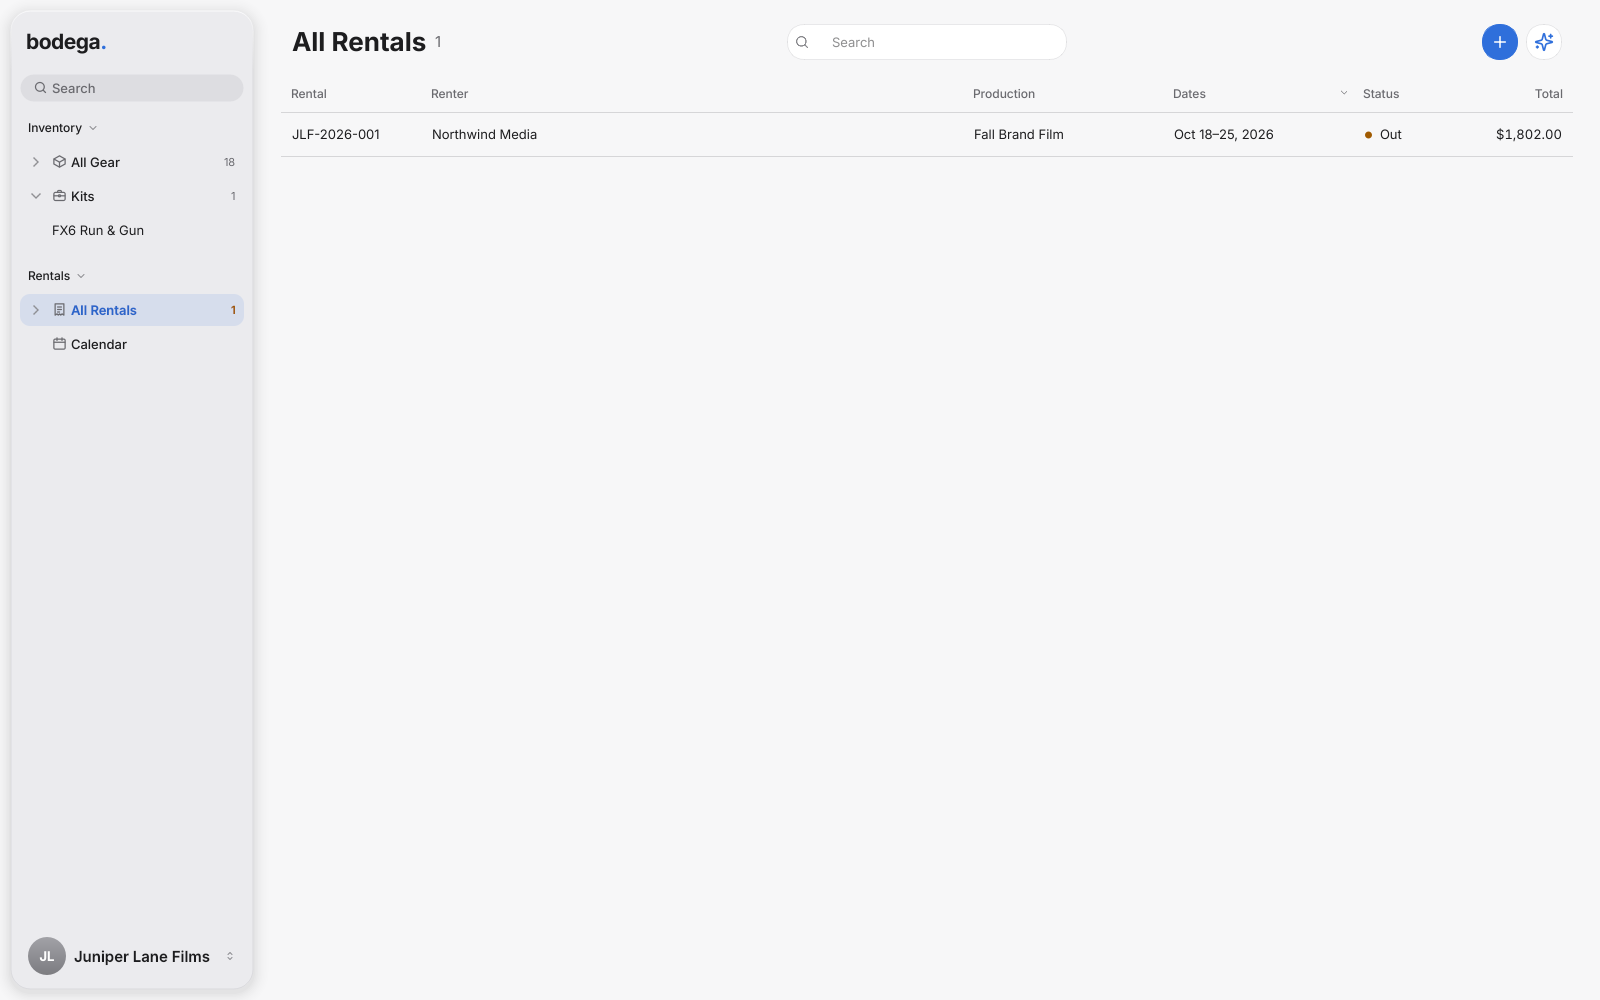
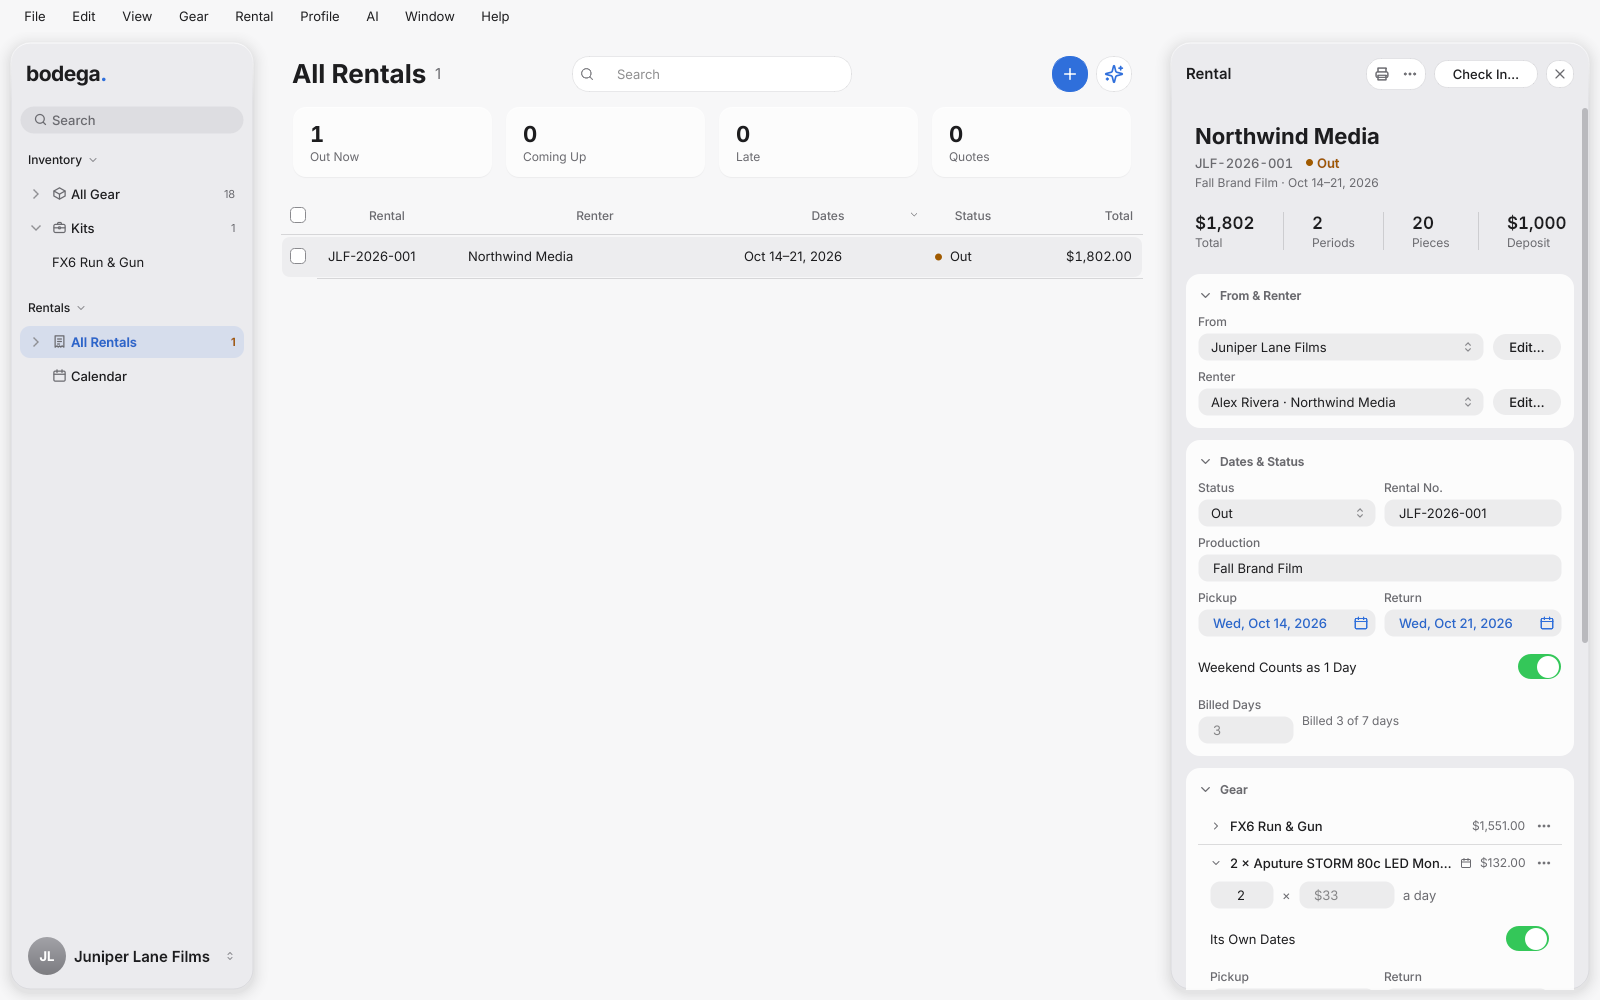
An overview of what's built and a scope map; the rule that every push carries its real test results; README screenshots of today

diff --git a/tests/screenshot.py b/tests/screenshot.py
@@ -99,9 +99,20 @@ def main(out: Path, sheet: Path | None = None) -> int:
 
     lib = sample.fill(Library(tmp).load())
     _give_photos(lib)
+    from datetime import timedelta
+
+    from bodega.core import dates
     from bodega.core.model import LogEntry
 
-    for r in lib.rentals.values():  # gone out, so the gear has earned something
+    for r in lib.rentals.values():  # gone out two days ago, so the gear is out and has earned something
+        start = dates.parse(r.pickup)
+        step = (dates.today() - timedelta(days=2) - start) if start else timedelta(0)
+        for owner, key in [(r, "pickup"), (r, "return_date")] + [
+            (ln, k) for ln in r.lines for k in ("pickup", "return_date")
+        ]:
+            d = dates.parse(getattr(owner, key))
+            if d is not None:
+                setattr(owner, key, dates.iso(d + step))
         r.status = "out"
         lib.save_rental(r)
     first = lib.ordered_items()[0]

diff --git a/docs/OVERVIEW.md b/docs/OVERVIEW.md
@@ -1,0 +1,75 @@
+# What's Built
+
+What Bodega is today, measured, not what it's meant to become (that's the owner's Universal App Standard and
+[PROJECT_ADDENDUM.md](PROJECT_ADDENDUM.md); what doesn't meet it yet is in [STANDARD_AUDIT.md](STANDARD_AUDIT.md)).
+Where this and the standard disagree, this says how things are and the standard says where they're going.
+
+**Measured at** commit `56a9232` on the branch `claude/awesome-bohr-9d9eva` (version 1.3.0, not merged or
+released yet; main is 1.2.1), 2026-10-16. Later changes add a dated note at the end instead of rewriting this.
+
+## What it is
+
+A desktop app (Mac, Windows, Linux) for a small film-gear rental house, or a filmmaker who rents out their own kit:
+an inventory of gear, kits made of it, and rentals that go from quote to booked to out to returned, with the
+paperwork for each. One person on one computer; everything is kept in files in its own data folder. Python 3.12 with
+Qt Widgets (PySide6), shipped as a packaged app with nothing else to install.
+
+## Places and screens
+
+- **The window**: a sidebar of places on the left, a list in the middle, the open record in a panel on the right.
+  - Places: **All Gear** (and each group of gear under it), **Kits** (and each kit), **All Rentals** with **Out Now**
+    and **Coming Up**, and the **Calendar** (Month, or a Timeline). Your profile card sits at the foot.
+  - Each list: a row of figures about all of it (some filter it when pressed), filters showing as capsules, sortable
+    headings, a tick on every row and a selection bar for what's ticked, search, and an empty page with ways to start.
+  - Each record's panel: a head (photo, name, number and status, a line of detail, a strip of figures), Print and ⋯
+    in one capsule with the record's next step beside it, then its cards. A pager steps through the list.
+- **On top of the window** (one at a time): the page window (a rental's agreement or quote; a kit's sheet; the
+  inventory list, rate card and labels); **Settings** (General, Profiles, AI, Account, Keyboard Shortcuts, Your
+  Data); Import Spreadsheet; Review (approving what the assistant suggests); Search Everything (⌘K); Check Out and
+  Check In (a checklist with scanning, notes and photos); a renter; a profile; the update window; Send Feedback.
+- **The assistant**: a panel on the right for questions and jobs (naming, grouping, finding links and prices),
+  using the person's own AI provider and key; nothing it suggests changes anything until approved in Review.
+
+## Records and where they're kept
+
+The data folder holds `gear.json`, `packages.json` (kits), `rentals/<id>.json`, `clients.json` (renters),
+`businesses.json` (profiles: pricing and terms), `settings.json`, `photos/`, `logos/`, `backups/` and a log. Every
+write is atomic; a file that can't be read is set aside, never overwritten. A safety copy is kept each day and
+before any big change, and File › Restore… brings one back.
+
+## Rules, and where each lives
+
+- **Pricing** (`core/pricing.py` only): replacement value with tax, the automatic day rate, kits (a discount or a
+  fixed rate), billed days (week and weekend deals, or typed), lines with their own dates, totals, deposits.
+- **A rental's life** (`core/model.py`, `core/store.py`): quote → booked → out → returned, or cancelled. Only a quote
+  can be deleted; prices hold once it's booked; a number is never given out twice; its history is only added to.
+- **Gear on rentals**: availability per day, shortages asked about before booking or marking out, gear that's on a
+  rental retired instead of deleted, attached gear that travels with its piece.
+- **Saving honestly**: a failed save is said until it works and asked about before quitting.
+
+## Integrations
+
+- **Saldo** (the owner's invoicing app): Send to Saldo writes a draft invoice into Saldo's own folder.
+- **Calendars**: Add to Calendar writes an .ics file; nothing syncs live.
+- **Spreadsheets**: .xlsx and .csv in (a Google Sheet by its link, too), .csv out.
+- **The web**, only when asked: a product page's price (Check Price) and photo, and GitHub for updates. Some stores
+  refuse anything but a browser; Bodega says so and offers another way.
+- **AI providers** (Anthropic, OpenAI, Gemini and others, or one on this computer): the person's own key, kept in
+  the system keychain, with a daily limit.
+- **Not connected yet**: accounts and sign-in, and sending feedback (it waits in an outbox).
+
+## How it's built and shipped
+
+CI tests and builds all four downloads (Mac Apple silicon and Intel, Windows, Linux) from hashed locks, audits every
+package, and attaches a software bill of materials. Merging to main is releasing. About 600 tests, with screenshots.
+
+## Known gaps, and drift in the other documents
+
+- **CI on Windows** doesn't finish yet: the test machine stops answering partway (being tracked down file by file).
+  Linux and the Apple silicon Mac pass; the Intel Mac crashed in the tests until today's fix.
+- The standard's larger redesigns not made yet are listed in STANDARD_AUDIT.md ("After the fixes"): among them text
+  that follows the system's text size, attached gear folding under its piece, print options, one table for every
+  menu's commands, and dialogs as sheets.
+- The downloads aren't signed (an Apple Developer ID and a Windows certificate are the owner's to get, later).
+- **Drift**: DESIGN.md describes the look as of 1.2 in places; where it differs, the standard and
+  PROJECT_ADDENDUM.md win. README's screenshots are today's.

diff --git a/docs/STANDARD_AUDIT.md b/docs/STANDARD_AUDIT.md
@@ -31,7 +31,7 @@ server, organization, sign-in, phone and stock checks: Bodega is one person's de
 
 **Pass 111 · Fail 253 (S1 39 · S2 135 · S3 79) · N/A 157** of 521 checks.
 
-Since then (see [After the fixes](#after-the-fixes)): of the 253 failures, **199 fixed, 18 partly, 19 not
+Since then (see [After the fixes](#after-the-fixes)): of the 253 failures, **201 fixed, 16 partly, 19 not
 started (larger redesigns), 16 waiting on the owner, and 1 no longer applies** (a web page's rule).
 
 | Section | Checks | Pass | Fail | S1 | S2 | S3 | N/A |
@@ -62,7 +62,7 @@ the same way. "Fixed" means the code does what the check asks and a test holds i
 "Not started" are the larger redesigns; the owner's items wait on a question below or a departure in
 [PROJECT_ADDENDUM.md](PROJECT_ADDENDUM.md). Nothing is marked fixed by skipping or loosening a test.
 
-**Of the 253 failures: Fixed 199 · Partly 18 · Open 19 · Waiting on the owner 16 · No longer applies 1.**
+**Of the 253 failures: Fixed 201 · Partly 16 · Open 19 · Waiting on the owner 16 · No longer applies 1.**
 
 ### Partly: what's left
 
@@ -78,12 +78,10 @@ the same way. "Fixed" means the code does what the check asks and a test holds i
 | C-65 | S2 | The right-click menu and the panel's ⋯ offer the same commands, but from two lists (see D-04). |
 | C-70 | S3 | No account card at the top of Settings: there's no account service to show yet (accounts.REQUIRED is off). |
 | C-90 | S3 | The profile form is sized by kind; the side panels' fields still stretch to the panel's width. |
-| G-01 | S2 | No overview of what's built that names its commit, and no map of what's in scope. |
 | K-09 | S2 | Each tick is saved as it's made, with its time; who ticked it waits on accounts (D-41). |
 | S-21 | S1 | Every package is locked with its hashes and listed in an SBOM; the Windows installer tool (Inno Setup) isn't pinned yet. |
 | T-04 | S2 | Tests still reach some controls through private names (about 48 in test_window.py). |
 | T-15 | S2 | Packaged builds check for their own update file, but none downloads and swaps in an update. |
-| T-16 | S2 | No written rule that a pull request carries its real test results; merging before CI is the owner's (26). |
 | T-18 | S2 | Pointer-size measurements exist; the full G.28 check list isn't run in both light and dark. |
 | V-35 | S3 | Inter has no optical sizes, and no style sets Apple's tracking per size. |
 
@@ -144,7 +142,7 @@ the same way. "Fixed" means the code does what the check asks and a test holds i
 - **AI**: AI-01, AI-03, AI-07, AI-08, AI-09, AI-14, AI-15, AI-16, AI-17, AI-19, AI-20, AI-23, AI-24, AI-29, AI-31
 - **C**: C-03, C-04, C-06, C-08, C-11, C-12, C-13, C-16, C-17, C-19, C-21, C-23, C-24, C-27, C-28, C-29, C-31, C-32, C-34, C-37, C-38, C-39, C-42, C-44, C-45, C-47, C-49, C-50, C-51, C-54, C-58, C-59, C-66, C-67, C-69, C-72, C-73, C-76, C-82, C-100, C-105, C-106, C-111, C-114, C-117, C-119, C-138, C-144, C-160, C-163, C-164, C-167, C-168
 - **D**: D-01, D-02, D-03, D-05, D-06, D-07, D-10, D-11, D-12, D-15, D-16, D-18, D-21, D-23, D-24, D-25, D-26, D-31, D-32, D-34, D-42, D-49, D-51
-- **G**: G-02
+- **G**: G-01, G-02
 - **I**: I-01, I-02, I-03, I-04, I-06, I-07, I-08, I-10, I-11, I-12, I-13, I-14, I-15, I-19, I-20, I-21, I-23, I-24, I-25, I-26, I-29, I-30, I-31
 - **K**: K-02, K-03, K-04, K-06, K-07, K-10, K-12
 - **N**: N-01, N-02, N-03, N-04, N-05, N-06, N-15, N-17
@@ -152,7 +150,7 @@ the same way. "Fixed" means the code does what the check asks and a test holds i
 - **P**: P-01, P-02, P-03, P-04, P-09, P-13, P-15, P-16
 - **R**: R-01, R-05
 - **S**: S-17, S-25
-- **T**: T-01, T-03, T-05, T-06, T-11, T-12, T-14
+- **T**: T-01, T-03, T-05, T-06, T-11, T-12, T-14, T-16
 - **V**: V-04, V-08, V-09, V-11, V-13, V-14, V-15, V-17, V-18, V-19, V-23, V-24, V-25, V-32, V-33, V-36, V-37, V-40
 - **W**: W-02, W-03, W-04, W-06, W-09, W-10, W-11, W-12, W-14, W-15, W-16, W-17, W-18, W-19, W-20, W-21, W-22
 - **X**: X-01, X-06, X-08

diff --git a/CONTRIBUTING.md b/CONTRIBUTING.md
@@ -97,9 +97,13 @@ packaging/     Installer files per OS
 19. A delayed call names what it belongs to: `QTimer.singleShot(ms, owner, fn)`, never `(ms, fn)`. If the owner is
     gone first (a window closed and deleted), Qt drops the call instead of running it on something that's no longer
     there; on a Mac that once crashed the next window. `tests/test_code_rules.py` checks every call.
-20. Python's cycle collector is off and runs on the window's thread between events (app.py `_MainThreadGC`):
-    never turn it back on, and never call `gc.collect()` from a background job. Left to itself it runs on any
-    thread, in the middle of Qt's own work, and freeing a Qt object there crashes Bodega at random.
+20. Python's cycle collector is off and runs on the window's thread between events, checked every GC_MS (app.py
+    `_MainThreadGC`): never turn it back on, and never call `gc.collect()` from a background job. Left to itself it
+    runs on any thread, in the middle of Qt's own work, and freeing a Qt object there crashes Bodega at random.
+21. A menu action that's kept (`self.act_up = …`, in a dict) is made with `widgets.menu_item`, never kept from
+    `menu.addAction(text, …)`. Python hears when Qt deletes an action Python made, never one Qt made: kept, that
+    one outlives its action when a rebuilt row is thrown away, and the next object Qt makes at the same address
+    meets it and crashes (`tests/test_code_rules.py` checks).
 
 ---
 
@@ -107,6 +111,9 @@ packaging/     Installer files per OS
 
 - Anything that waits on the internet or may take more than a moment runs off the main thread and talks to the
   window with **signals**, almost always through `ui/components/worker.py` (`Worker`, with progress and Stop).
+  Every thread is a `worker.Background`: Qt stops the whole app if a running thread is destroyed, and a window
+  takes its threads with it, so a window that goes first lets its thread go (told to stop, kept until it ends,
+  its answer going nowhere). `tests/test_threads.py` fails on a plain `QThread`.
   Today that's:
   - the Assistant's jobs and questions (`ui/window/ai.py`, `ui/panels/assistant.py`) and the list of models in AI
     Settings (`ui/dialogs/ai_setup.py`);
@@ -140,6 +147,11 @@ packaging/     Installer files per OS
 - A document's PDF is read back with an independent reader (pypdf): its words are real text.
 - UI changes: check screenshots (`QT_QPA_PLATFORM=offscreen python tests/screenshot.py OUTDIR`).
 - Before a release, the packaged app must pass `--smoke-test` (CI does this on every platform).
+- **Real results, every push.** Before pushing, run every check in full on your computer (`ruff format . && ruff
+  check . && mypy && python -m pytest -q`) and read what it says. A pull request says what ran and what it said
+  (how many tests passed, what failed and why) and links CI's run on its last commit; "should pass" is never a
+  result. A check that couldn't run is said too, with why. Merging waits for all four builds (the owner's branch
+  protection, question 26).
 
 ---
 

diff --git a/docs/SCOPE.md b/docs/SCOPE.md
@@ -1,0 +1,39 @@
+# Scope
+
+What Bodega builds, what another system owns, and what's put off, set against what people used before it. Check it
+before adding or changing a feature: a feature on the "another system" side goes there, not here.
+
+## What people leave for it
+
+A gear list in a spreadsheet (Excel or Google Sheets: quantity, item, cost, a day rate or a percent of the cost), a
+rental agreement typed in a word processor, and a calendar kept by hand. Bodega reads the spreadsheet as it is
+(Import Spreadsheet…), so nobody retypes their list.
+
+## Bodega builds
+
+- **Gear**: each piece with its company, series, group, quantity, serial numbers, value, day rate, link, photo,
+  service log, and the gear that lives on it; retired gear kept.
+- **Kits**: gear sold together, priced by a discount or a fixed rate.
+- **Rentals**: quote, booked, out, returned or cancelled; lines with their own dates; fees, discount, tax, deposit;
+  availability and shortages; check out and check in with a checklist; each rental's history.
+- **Paper**: agreements and quotes, kit sheets, inventory lists, rate cards and labels, as PDF, PNG or print.
+- **Keeping it safe**: atomic saves, safety copies and Restore, undo.
+- **Help with the list**: an assistant on the person's own AI key that suggests names, groups, links and prices,
+  approved one by one.
+
+## Another system owns
+
+- **Invoices, payments and the books**: Saldo. Bodega hands it a draft invoice (Send to Saldo) and never keeps
+  payments or balances of its own.
+- **Calendars**: the person's calendar app, through an .ics file.
+- **Email**: the person's mail app (Email Renter opens it with the agreement's words).
+- **Signatures**: the agreement is printed or sent as a PDF and signed outside Bodega.
+- **Taxes and depreciation**: the accountant; Bodega gives values, not tax figures.
+
+## Put off
+
+- Live Google Calendar sync (needs a Google Cloud project, sign-in and Google's app review).
+- Accounts and sign-in, and with them who booked, checked out and checked in a rental (the standard's D-41).
+- A purchase date and depreciation for each piece.
+- Signed downloads (an Apple Developer ID and a Windows certificate, when the owner wants them).
+- More than one person working on the same gear at once.

diff --git a/CLAUDE.md b/CLAUDE.md
@@ -16,6 +16,9 @@ The owner is a filmmaker (director/DP/editor/colorist), not a full-time develope
   vocabulary, integrations, AI) and every departure from it, with the owner's yes. Follow the standard and the
   addendum; where this file or DESIGN.md disagrees with them, they win, and the difference is a fix to make (see
   **[docs/STANDARD_AUDIT.md](docs/STANDARD_AUDIT.md)** for what doesn't meet it yet).
+- **[docs/OVERVIEW.md](docs/OVERVIEW.md)**: what's built today, measured at a named commit (gaps and drift said
+  plainly); **[docs/SCOPE.md](docs/SCOPE.md)**: what Bodega builds, what Saldo and other apps own, what's put off.
+  Check the scope before adding a feature.
 - **[DESIGN.md](DESIGN.md)**: how the app and the paper look and read. All app values live in `bodega/ui/tokens.py`;
   paper colors in `bodega/core/looks.py`. Never type a size or color anywhere else.
 - **[CONTRIBUTING.md](CONTRIBUTING.md)**: code rules.
